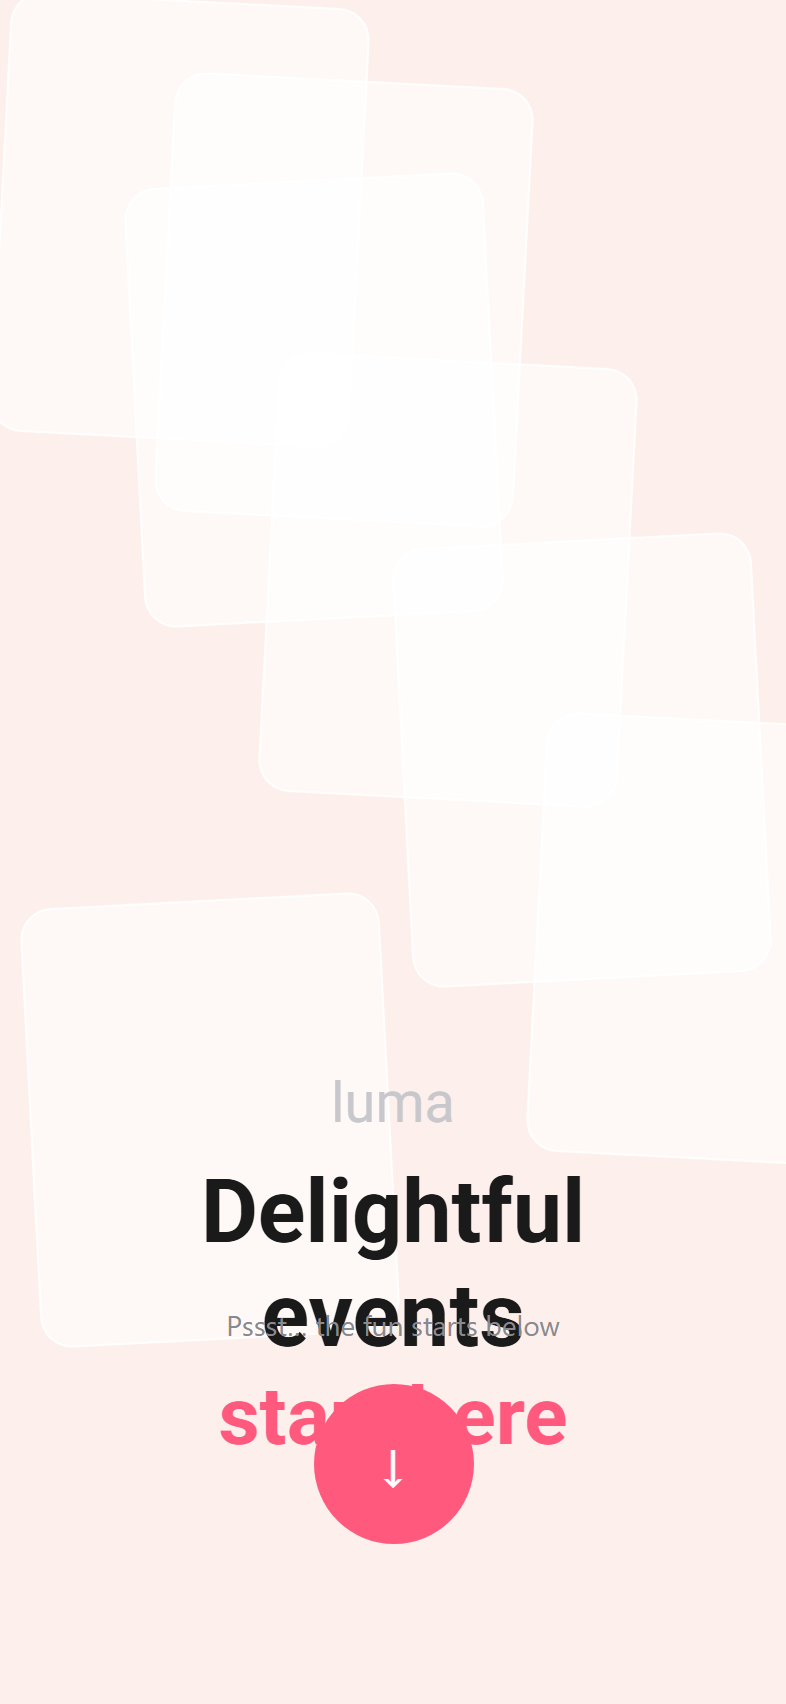
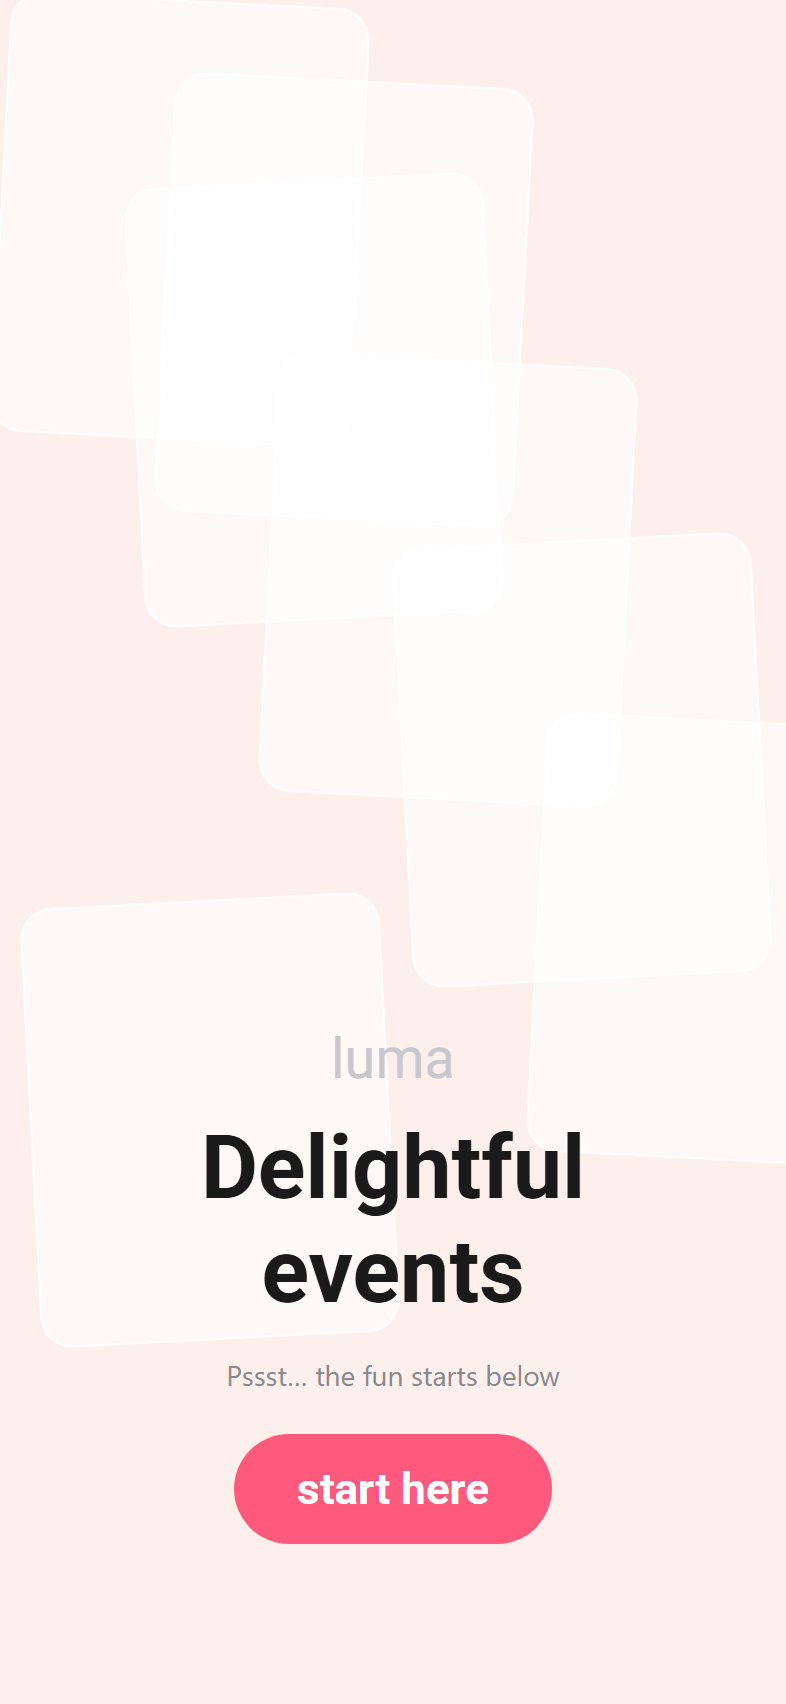
fix: onboarding layout collapse, regenerate demo shots

Changed region(s): [[0.2443, 0.591, 0.7634, 0.9331]]

diff --git a/src/App.tsx b/src/App.tsx
@@ -51,15 +51,13 @@ function Onboarding({ onNext }: {
           <Text style={styles.lumaWordmark}>luma</Text>
           <Text style={styles.delightful}>Delightful</Text>
           <Text style={styles.delightful}>events</Text>
-          <Text style={styles.startHere}>start here</Text>
         </View>
-      </View>
-      {!panelOpen ? (<View>
         <Text style={styles.pssst}>Pssst… the fun starts below</Text>
-        <TouchableOpacity style={styles.downArrow} onPress={() => setPanelOpen(true)} accessibilityLabel="start here">
-          <Text style={{ color: '#fff', fontSize: 28 }}>↓</Text>
+        <TouchableOpacity style={styles.startHereBtn} onPress={() => setPanelOpen(true)} accessibilityLabel="start here">
+          <Text style={styles.startHereText}>start here</Text>
         </TouchableOpacity>
-        </View>) : (<View style={styles.loginSheet}>
+      </View>
+      {panelOpen && (<View style={styles.loginSheet}>
           <View style={styles.grabber}/>
           <Text style={styles.loginSub}>
             Discover events, follow calendars and manage events you are going to.
@@ -387,15 +385,15 @@ function TabBar({ active, onTab }: any) {
 const styles = StyleSheet.create({
     root: { flex: 1, backgroundColor: colors.bg, width: '100%', maxWidth: 430, alignSelf: 'center' },
     screen: { flex: 1, backgroundColor: colors.bg },
-    onboardRoot: { flex: 1, backgroundColor: '#FDF0EC', overflow: 'hidden' },
-    promoWall: { flex: 1, backgroundColor: 'linear-gradient(135deg,#FFE0E0 0%,#FFF3D6 50%,#D6F5E8 100%)' },
+    onboardRoot: { flex: 1, minHeight: '100vh', backgroundColor: '#FDF0EC', overflow: 'hidden' },
+    promoWall: { flex: 1, minHeight: '100vh', backgroundColor: '#FDF0EC', alignItems: 'center', justifyContent: 'flex-end', paddingBottom: 80 },
     promoCard: { position: 'absolute', width: 180, height: 220, backgroundColor: 'rgba(255,255,255,0.6)', borderRadius: 16, borderWidth: 1, borderColor: 'rgba(255,255,255,0.8)' },
-    onboardTextWrap: { position: 'absolute', bottom: 120, left: 0, right: 0, alignItems: 'center' },
+    onboardTextWrap: { alignItems: 'center', marginBottom: 16 },
     lumaWordmark: { fontSize: 28, color: '#C7C7CC', marginBottom: 12, fontFamily: fonts.regular },
     delightful: { fontSize: 44, color: colors.ink, fontFamily: fonts.bold, lineHeight: 52 },
-    startHere: { fontSize: 40, fontFamily: fonts.bold, color: colors.pinkStart },
-    pssst: { position: 'absolute', bottom: 180, left: 0, right: 0, textAlign: 'center', fontSize: 14, color: colors.inkSecondary },
-    downArrow: { position: 'absolute', bottom: 80, left: '50%', marginLeft: -40, width: 80, height: 80, borderRadius: 40, backgroundColor: colors.arrowPink, alignItems: 'center', justifyContent: 'center' },
+    pssst: { fontSize: 14, color: colors.inkSecondary, marginBottom: 20 },
+    startHereBtn: { backgroundColor: colors.pinkStart, paddingHorizontal: 32, paddingVertical: 14, borderRadius: 28, },
+    startHereText: { fontSize: 22, fontFamily: fonts.bold, color: '#fff' },
     loginSheet: { position: 'absolute', bottom: 0, left: 0, right: 0, backgroundColor: '#fff', borderTopLeftRadius: 24, borderTopRightRadius: 24, padding: 24, paddingBottom: 40 },
     grabber: { width: 40, height: 5, backgroundColor: '#E5E5EA', borderRadius: 3, alignSelf: 'center', marginBottom: 20 },
     loginSub: { fontSize: 16, color: colors.inkSecondary, textAlign: 'center', marginBottom: 20, lineHeight: 22 },
